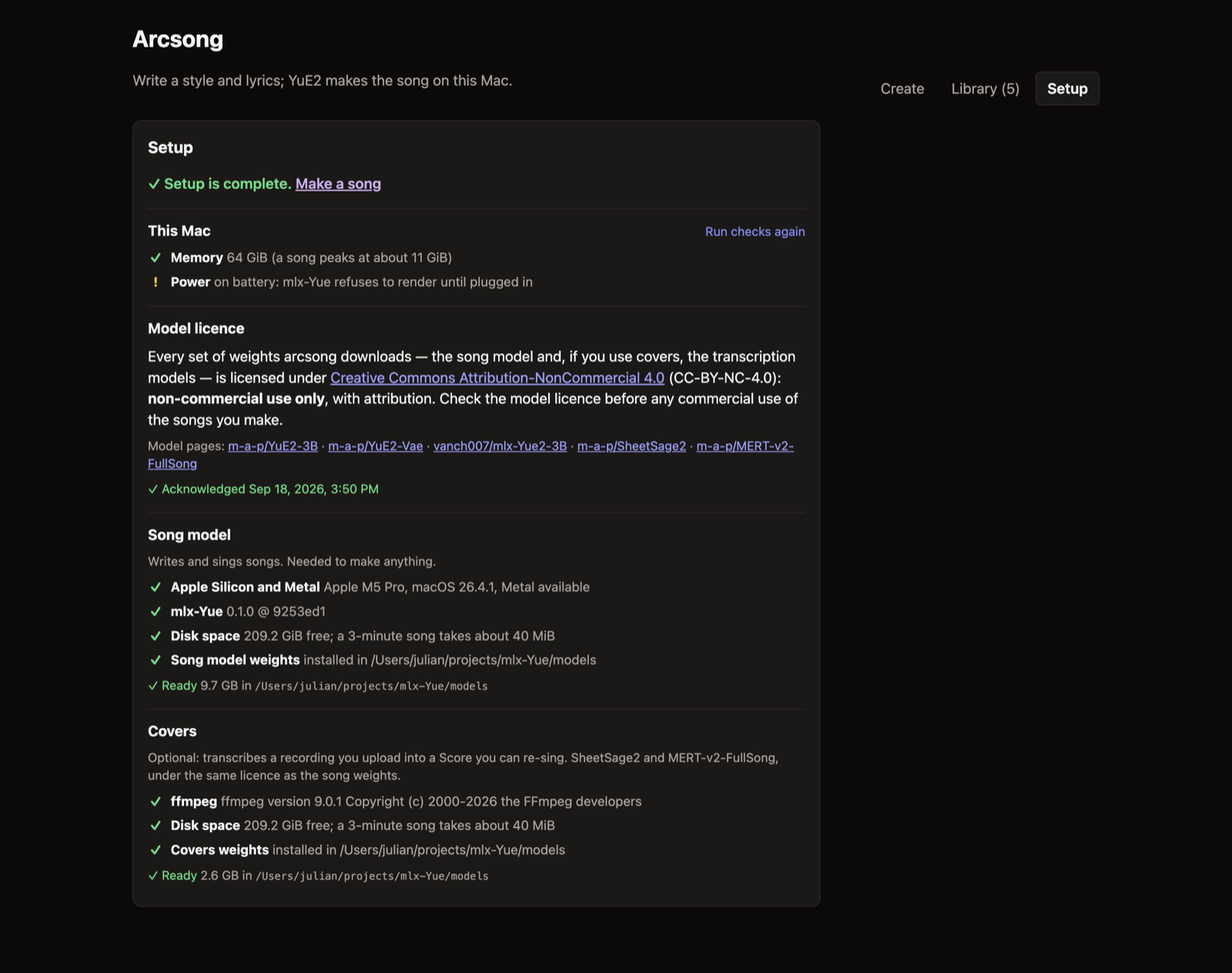
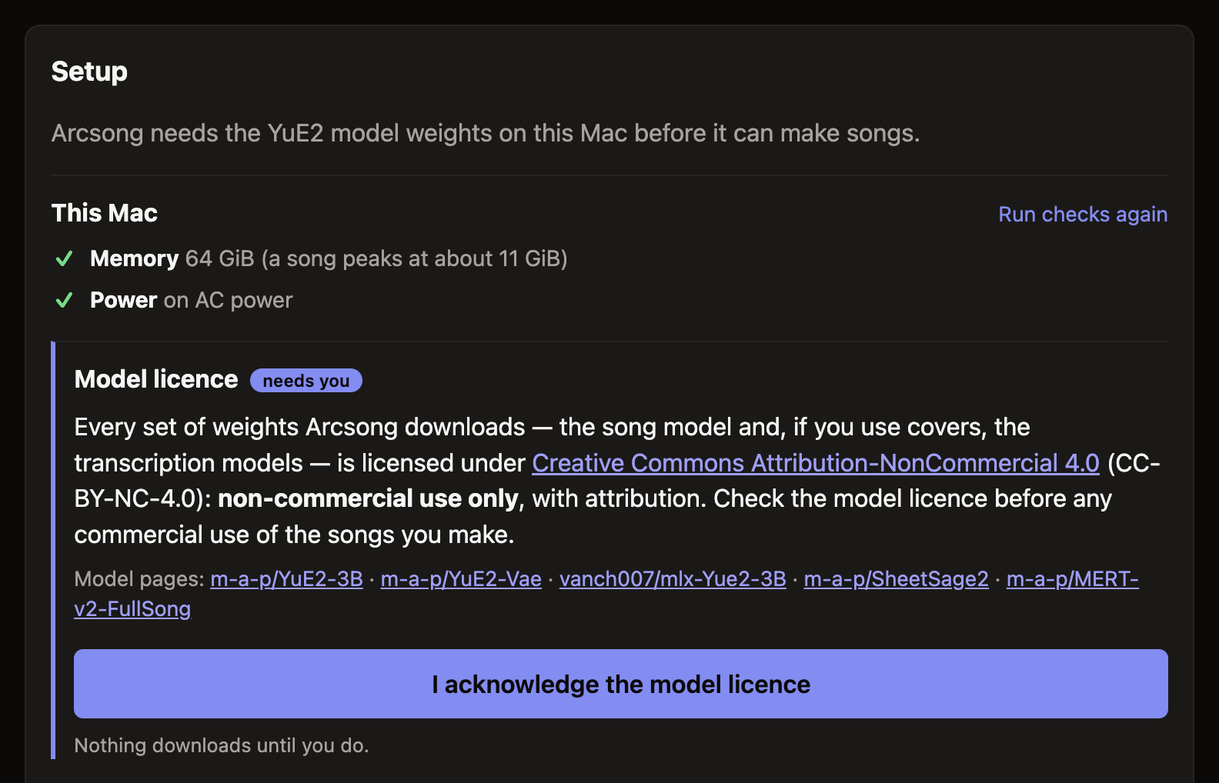
fix: licence notices in the wheel, an sdist whose tests can run, honest README claims (M6 review)
The wheel shipped 88 vendored MIT soundfont files and MIT/BSD bundles with only LICENSE
beside them; THIRD_PARTY_NOTICES.md now ships too. The sdist carried tests that import the
M0 spike harness it deliberately excludes, so they could never run — it now ships the app
alone and says why. The README claimed the samples play in the page (GitHub serves them as
downloads) and quoted a test count that went stale; the Setup screenshot showed a finished
setup beside text describing first run, and now shows the first-run state. Classifiers name
the Pythons the suite is actually run on, and the UI says "Arcsong", not "arcsong".

diff --git a/arcsong/static/assets/index-D48w_PKn.js b/arcsong/static/assets/index-D48w_PKn.js
@@ -233,4 +233,4 @@ Soft morning light is touching the window
 
 [Chorus]
 Stay with the rhythm, let it carry us home`}),K.jsx("p",{className:"hint",children:"Section tags like [Verse] and [Chorus] shape the song. Leave empty for an instrumental."}),K.jsxs("details",{open:h!==void 0,children:[K.jsx("summary",{children:"Advanced"}),K.jsxs("div",{className:"grid",children:[K.jsxs("div",{children:[K.jsx("label",{htmlFor:"mode",children:"Planning"}),K.jsxs("select",{id:"mode",value:g,onChange:U=>S(U.target.value),children:[K.jsx("option",{value:"full",children:"Melody + chords (recommended)"}),K.jsx("option",{value:"melody",children:"Melody only"}),K.jsx("option",{value:"off",children:"Off (no Score)"})]})]}),K.jsxs("div",{children:[K.jsx("label",{htmlFor:"steps",children:"Quality"}),K.jsxs("select",{id:"steps",value:o,onChange:U=>l(Number(U.target.value)),children:[K.jsx("option",{value:32,children:"Standard (32 steps)"}),K.jsx("option",{value:8,children:"Quick draft (8 steps)"})]})]}),K.jsxs("div",{children:[K.jsx("label",{htmlFor:"precision",children:"Precision"}),K.jsxs("select",{id:"precision",value:v,onChange:U=>u(U.target.value),children:[K.jsx("option",{value:"8bit",children:"8-bit (faster)"}),K.jsx("option",{value:"bf16",children:"bf16"})]})]}),K.jsxs("div",{children:[K.jsx("label",{htmlFor:"seed",children:"Seed"}),K.jsx("input",{id:"seed",inputMode:"numeric",pattern:"[0-9]*",value:b,onChange:U=>x(U.target.value.replace(/\D/g,"")),placeholder:"random"})]})]}),K.jsx("p",{className:"hint",children:"The same seed, precision and quality reproduce the same song."})]}),K.jsxs("div",{className:"takes-row",children:[K.jsx("label",{htmlFor:"takes",children:"Takes"}),K.jsxs("select",{id:"takes",value:i,onChange:U=>m(Number(U.target.value)),children:[K.jsx("option",{value:1,children:"1"}),K.jsx("option",{value:2,children:"2 variations"}),K.jsx("option",{value:4,children:"4 variations"}),K.jsx("option",{value:8,children:"8 variations"})]})]}),i>1&&K.jsxs("p",{className:"hint",children:[i," Takes with different seeds",b!==""&&` (${b}, ${Number(b)+1}, …)`,", compared side by side.",o===32?" Quick draft (8 steps) under Advanced makes them much faster; Finalize the one you like.":" Finalize the one you like at full quality."]}),E&&K.jsx("p",{className:"error",role:"alert",children:E}),!p&&K.jsxs("p",{className:"notice",role:"status",children:["The model weights aren’t ready yet. ",K.jsx("a",{href:"#/setup",children:"Finish Setup"})," to make songs."]}),K.jsx("button",{type:"submit",className:"primary",disabled:T||!s.trim()||!p,children:T?"Adding…":i>1?`Generate ×${i}`:"Generate"}),K.jsx("button",{type:"button",disabled:T||z||!s.trim()||!p,onClick:()=>{D()},children:z?"Planning…":"Score only"}),K.jsx("p",{className:"hint",children:"Score only writes the melody in seconds, to read, edit and render from — no audio yet."})]})}const Qy={full:"Melody + chords",melody:"Melody only",off:"Off (no Score)"};function Ky({songs:w,jobs:h,onJob:p,onSong:s,error:r,onDeleted:d,onRerun:c,onEdit:g}){const[S,b]=ye.useState(""),[x,v]=ye.useState(!1),[u,o]=ye.useState(null);ye.useEffect(()=>{Je.library().then(o).catch(()=>o(null))},[w]);const l=ye.useMemo(()=>{const i=S.trim().toLowerCase();return(w??[]).filter(m=>(!x||m.starred)&&(!i||`${m.request.style}
-${m.request.lyrics}`.toLowerCase().includes(i)))},[w,S,x]);return K.jsxs("section",{className:"panel library","aria-label":"Library",children:[K.jsxs("div",{className:"library-head",children:[K.jsx("h2",{children:"Library"}),u&&K.jsxs("p",{className:"muted small","data-testid":"usage",children:[u.songs," ",u.songs===1?"song":"songs"," · ",On(u.bytes_used)," used ·"," ",On(u.bytes_free)," free"]})]}),K.jsx("input",{type:"search",value:S,onChange:i=>b(i.target.value),placeholder:"Filter by style or lyrics","aria-label":"Filter songs"}),K.jsxs("label",{className:"check-label",children:[K.jsx("input",{type:"checkbox",checked:x,onChange:i=>v(i.target.checked)})," Starred only"]}),r&&K.jsxs("p",{className:"error",children:["Could not load songs: ",r]}),w===null&&!r&&K.jsx("p",{className:"muted",children:"Loading…"}),w?.length===0&&K.jsx("p",{className:"muted",children:"No songs yet. Make one in Create."}),w&&w.length>0&&l.length===0&&K.jsx("p",{className:"muted",children:x&&!S.trim()?"No starred songs yet.":`No songs match “${S}”${x?" among starred songs":""}.`}),K.jsx("ol",{className:"jobs",children:l.map(i=>K.jsx(Iy,{song:i,final:Zy(h,i.id),draftDeleted:i.source_song_id!==null&&!w?.some(m=>m.id===i.source_song_id),onJob:p,onSong:s,onDeleted:d,onRerun:c,onEdit:g},i.id))})]})}function Zy(w,h){return w.filter(p=>p.source_song_id===h).sort((p,s)=>s.id-p.id)[0]}function Iy({song:w,final:h,draftDeleted:p,onJob:s,onSong:r,onDeleted:d,onRerun:c,onEdit:g}){const{request:S}=w,b=S.steps<Ts,x=h&&["queued","running","done"].includes(h.status),[v,u]=ye.useState(!1),[o,l]=ye.useState(!1),[i,m]=ye.useState(null);async function T(C,E){l(!0),m(null);try{E(await C())}catch(A){m(A instanceof Error?A.message:String(A))}finally{l(!1)}}return K.jsxs("li",{className:"job song",children:[K.jsxs("div",{className:"job-head",children:[K.jsx("span",{className:"job-title",title:S.style,children:S.style}),K.jsxs("span",{className:"song-head-right",children:[K.jsxs("span",{className:"muted small",children:["#",w.id]}),K.jsx("button",{type:"button",className:`star${w.starred?" on":""}`,"aria-pressed":w.starred,"aria-label":w.starred?"Unstar this song":"Star this song",disabled:o,onClick:()=>T(()=>Je.star(w.id,!w.starred),r),children:w.starred?"★":"☆"})]})]}),K.jsxs("div",{className:"labels small",children:[b&&K.jsxs("span",{className:"badge queued",children:["Draft · ",S.steps," steps"]}),w.source_song_id!==null&&K.jsxs("span",{className:"badge done",children:["Final of ",p?"a deleted Draft":`#${w.source_song_id}`]}),w.group_id!==null&&K.jsx("a",{href:`#/compare/${w.group_id}`,children:"Compare Variations"}),S.mode!=="off"&&K.jsx("a",{href:`#/score/song/${w.id}`,children:"Score"}),S.abc&&K.jsx("span",{className:"muted",children:"From an edited Score"}),h?.status==="done"&&h.song_id!==null&&K.jsxs("span",{className:"muted",children:["Finalized as #",h.song_id]}),h&&(h.status==="queued"||h.status==="running")&&K.jsxs("span",{className:"muted",children:["Final ",h.status,"…"]})]}),K.jsxs("div",{className:"muted small",children:[I3(w.created_at),w.audio_seconds!==null&&K.jsxs(K.Fragment,{children:[" · ",nh(w.audio_seconds)]})," ·"," ",On(w.bytes)]}),K.jsx("audio",{controls:!0,preload:"none",src:Je.audioUrl(w.id)}),K.jsxs("details",{children:[K.jsx("summary",{className:"small",children:"Settings"}),K.jsxs("dl",{className:"settings",children:[K.jsx("dt",{children:"Planning"}),K.jsx("dd",{children:Qy[S.mode]}),K.jsx("dt",{children:"Quality"}),K.jsxs("dd",{children:[S.steps," steps"]}),K.jsx("dt",{children:"Precision"}),K.jsx("dd",{children:S.precision}),K.jsx("dt",{children:"Seed"}),K.jsx("dd",{children:S.seed})]}),S.lyrics.trim()?K.jsx("pre",{className:"lyrics",children:S.lyrics}):K.jsx("p",{className:"muted small",children:"No lyrics (instrumental)."})]}),K.jsxs("div",{className:"actions",children:[K.jsx("a",{className:"button",href:Je.downloadUrl(w.id,"flac"),download:!0,children:"FLAC"}),K.jsx("a",{className:"button",href:Je.downloadUrl(w.id,"wav"),download:!0,children:"WAV"}),b&&!x&&K.jsxs("button",{type:"button",disabled:o,onClick:()=>T(()=>Je.finalize(w.id),s),children:["Finalize (",Ts," steps)"]}),K.jsx("button",{type:"button",disabled:o,onClick:()=>T(()=>Je.create(S),c),children:"Re-run"}),K.jsx("button",{type:"button",disabled:o,onClick:()=>g(S),children:"Edit in Create"}),!v&&K.jsx("button",{type:"button",className:"danger",disabled:o,onClick:()=>u(!0),children:"Delete"})]}),v&&K.jsxs("div",{className:"confirm",role:"alertdialog","aria-label":"Confirm delete",children:[K.jsx("span",{children:"Delete this song and its files permanently?"}),K.jsx("button",{type:"button",className:"danger",disabled:o,onClick:()=>T(()=>Je.deleteSong(w.id),()=>d({song_id:w.id,job_id:w.job_id})),children:"Delete permanently"}),K.jsx("button",{type:"button",disabled:o,onClick:()=>u(!1),children:"Keep"})]}),i&&K.jsx("p",{className:"error small",children:i})]})}const Am={ok:"✓",warn:"!",fail:"✕"},Mm={ok:"OK",warn:"Warning",fail:"Problem"};function Jy({setup:w,error:h,onChanged:p}){const[s,r]=ye.useState(!1),[d,c]=ye.useState(null);async function g(v){r(!0),c(null);try{p(await v())}catch(u){c(u instanceof Error?u.message:String(u))}finally{r(!1)}}if(!w)return K.jsxs("section",{className:"panel setup","aria-label":"Setup",children:[K.jsx("h2",{children:"Setup"}),h?K.jsxs("p",{className:"error",children:["Could not load Setup: ",h]}):K.jsx("p",{className:"muted",children:"Loading…"})]});const{checks:S,licence:b}=w,x=b.acknowledged_at!==null;return K.jsxs("section",{className:"panel setup","aria-label":"Setup",children:[K.jsx("h2",{children:"Setup"}),w.ready?K.jsxs("p",{className:"setup-done",role:"status",children:["✓ Setup is complete. ",K.jsx("a",{href:"#/",children:"Make a song"})]}):K.jsx("p",{className:"muted",children:"Arcsong needs the YuE2 model weights on this Mac before it can make songs."}),d&&K.jsx("p",{className:"error",role:"alert",children:d}),K.jsxs("div",{className:"setup-section",children:[K.jsxs("div",{className:"label-row",children:[K.jsx("h3",{children:"This Mac"}),K.jsx("button",{type:"button",className:"link",disabled:w.checking,onClick:()=>{g(Je.runChecks)},children:w.checking?"Checking…":"Run checks again"})]}),K.jsx("ul",{className:"checks",children:S.map(v=>K.jsxs("li",{className:`check ${v.status}`,children:[K.jsx("span",{className:"mark","aria-label":Mm[v.status],children:Am[v.status]}),K.jsxs("span",{children:[K.jsx("strong",{children:v.label})," ",K.jsx("span",{className:"muted",children:v.detail})]})]},v.id))})]}),K.jsxs("div",{className:`setup-section${x?"":" needs-action"}`,children:[K.jsx("h3",{children:"Model licence"}),K.jsxs("p",{children:["Every set of weights arcsong downloads — the song model and, if you use covers, the transcription models — is licensed under"," ",K.jsx("a",{href:b.url,target:"_blank",rel:"noreferrer",children:b.name})," ","(",b.id,"): ",K.jsx("strong",{children:"non-commercial use only"}),", with attribution. Check the model licence before any commercial use of the songs you make."]}),K.jsxs("p",{className:"small muted",children:["Model pages:"," ",b.models.map((v,u)=>K.jsxs("span",{children:[u>0&&" · ",K.jsx("a",{href:v,target:"_blank",rel:"noreferrer",children:v.replace("https://huggingface.co/","")})]},v))]}),x?K.jsxs("p",{className:"small ok-text",children:["✓ Acknowledged ",I3(b.acknowledged_at)]}):K.jsxs(K.Fragment,{children:[K.jsx("button",{type:"button",className:"primary",disabled:s,onClick:()=>{g(Je.acknowledgeLicence)},children:"I acknowledge the model licence"}),K.jsx("p",{className:"hint",children:"Nothing downloads until you do."})]})]}),w.parts.map(v=>K.jsx(Wy,{part:v,acknowledged:x,busy:s,checking:w.checking,onAct:g},v.id))]})}function Wy({part:w,acknowledged:h,busy:p,checking:s,onAct:r}){const{weights:d,download:c,checks:g}=w,S=c.state==="running",b=g.some(x=>x.status==="fail"&&x.id!=="weights");return K.jsxs("div",{className:"setup-section",children:[K.jsx("h3",{children:w.label}),w.summary&&K.jsx("p",{className:"small muted",children:w.summary}),K.jsxs("ul",{className:"checks",children:[g.map(x=>K.jsxs("li",{className:`check ${x.status}`,children:[K.jsx("span",{className:"mark","aria-label":Mm[x.status],children:Am[x.status]}),K.jsxs("span",{children:[K.jsx("strong",{children:x.label})," ",K.jsx("span",{className:"muted",children:x.detail})]})]},x.id)),(s||!w.checked)&&K.jsxs("li",{className:"check muted",children:[K.jsx("span",{className:"mark",children:"…"}),K.jsx("span",{children:"Checking…"})]})]}),S&&K.jsxs("div",{className:"progress","aria-live":"polite",children:[K.jsx("progress",{value:c.phase==="verifying"?void 0:c.bytes??0,max:c.bytes_total||1}),K.jsx("p",{className:"small muted",children:c.phase==="verifying"?"Verifying the weights…":`Downloading ${On(c.bytes??0)} of ${On(c.bytes_total??0)}`}),K.jsx("button",{type:"button",disabled:p,onClick:()=>{r(()=>Je.cancelDownload(w.id))},children:"Cancel download"})]}),c.state==="cancelled"&&K.jsx("p",{className:"small muted",children:"Download cancelled. Download again to resume where it stopped."}),c.state==="failed"&&K.jsxs("div",{className:"error-details",children:[K.jsxs("p",{className:"error",children:["The download failed: ",c.reason]}),K.jsxs("details",{children:[K.jsx("summary",{children:"Details"}),K.jsx("pre",{children:c.error})]})]}),!S&&(!d.installed||c.state==="failed")&&K.jsxs(K.Fragment,{children:[K.jsx("button",{type:"button",className:w.id==="engine"&&h?"primary":void 0,disabled:p||!h,onClick:()=>{r(()=>Je.startDownload(w.id))},children:c.state==="failed"||c.state==="cancelled"||d.bytes_on_disk>0?"Download again":`Download (${On(d.bytes_total)})`}),!h&&K.jsx("p",{className:"hint",children:"Acknowledge the licence above to download."}),b&&d.installed&&K.jsx("p",{className:"hint",children:"The weights are here, but the check above has to pass first."})]}),!S&&d.installed&&!b&&c.state!=="failed"&&K.jsxs("p",{className:"small",children:[K.jsx("span",{className:"ok-text",children:"✓ Ready"})," ",K.jsxs("span",{className:"muted",children:[On(d.bytes_total)," in ",K.jsx("code",{children:d.dir})]})]})]})}const Pi={create:"#/",library:"#/library",setup:"#/setup",compare:"#/compare/",score:"#/score/"};function V3(){const w=window.location.hash;return eh(w)!==null?"score":th(w)!==null?"compare":w===Pi.library?"library":w===Pi.setup?"setup":"create"}function P3(w){return w?.parts?.find(h=>h.id==="covers")}function eh(w){const h=/^#\/score\/(job|song)\/(\d+)$/.exec(w);return h?{kind:h[1],id:Number(h[2])}:null}function th(w){const h=/^#\/compare\/(\d+)$/.exec(w);return h?Number(h[1]):null}function $y(){const[w,h]=ye.useState(V3),[p,s]=ye.useState(()=>th(window.location.hash)),[r,d]=ye.useState(()=>eh(window.location.hash)),[c,g]=ye.useState(new Map),[S,b]=ye.useState(null),[x,v]=ye.useState(null),[u,o]=ye.useState(null),l=ye.useRef(new Set),i=ye.useRef(new Set),[m,T]=ye.useState(null),[C,E]=ye.useState(null),[A,z]=ye.useState(null),j=ye.useRef(!1);ye.useEffect(()=>{const O=()=>{h(V3()),s(th(window.location.hash)),d(eh(window.location.hash))};return window.addEventListener("hashchange",O),()=>window.removeEventListener("hashchange",O)},[]);const L=O=>{window.location.hash=Pi[O]},D=ye.useCallback(O=>{if(E(M=>M&&M.seq>O.seq?M:O),!j.current){j.current=!0;const M=window.location.hash;!O.ready&&(M===""||M==="#"||M===Pi.create)&&(window.location.hash=Pi.setup)}},[]),U=ye.useCallback(()=>Je.songs().then(O=>{o(null),b(O.filter(M=>!i.current.has(M.id)))}).catch(O=>o(String(O))),[]),V=ye.useCallback(O=>{l.current.has(O.id)||g(M=>{const q=M.get(O.id);return q&&q.seq>O.seq?M:(O.status==="done"&&q?.status!=="done"&&U(),new Map(M).set(O.id,O))})},[U]),k=ye.useCallback(O=>{i.current.has(O.id)||(b(M=>M&&M.map(q=>q.id===O.id?{...q,...O,bytes:q.bytes}:q)),g(M=>{const q=M.get(O.job_id);return q?new Map(M).set(q.id,{...q,starred:O.starred}):M}))},[]),H=ye.useCallback(O=>{l.current.add(O.job_id),i.current.add(O.song_id),g(M=>{if(!M.has(O.job_id))return M;const q=new Map(M);return q.delete(O.job_id),q}),b(M=>M&&M.filter(q=>q.id!==O.song_id))},[]);ye.useEffect(()=>N6({onJob:V,onDeleted:H,onSetup:D,onSong:k,onConnect:()=>{U(),Je.setup().then(M=>{z(null),D(M)}).catch(M=>z(String(M))),Je.jobs().then(M=>{v(null),g(q=>{const Q=M.filter(_=>!l.current.has(_.id)),G=new Map(Q.map(_=>[_.id,_]));for(const[_,N]of q){const B=G.get(_);B&&B.seq<N.seq&&G.set(_,N)}return G})}).catch(M=>v(String(M)))}}),[V,H,U,D,k]);const X=[...c.values()].sort((O,M)=>M.id-O.id);return K.jsxs("main",{children:[K.jsxs("header",{className:"top",children:[K.jsxs("div",{children:[K.jsx("h1",{children:"Arcsong"}),K.jsx("p",{className:"muted",children:"Write a style and lyrics; YuE2 makes the song on this Mac."})]}),K.jsxs("nav",{"aria-label":"Views",children:[K.jsx("a",{href:"#/","aria-current":w==="create"?"page":void 0,children:"Create"}),K.jsxs("a",{href:"#/library","aria-current":w==="library"?"page":void 0,children:["Library",S?` (${S.length})`:""]}),K.jsxs("a",{href:"#/setup","aria-current":w==="setup"?"page":void 0,children:["Setup",C&&!C.ready&&K.jsxs("span",{className:"attention","aria-label":"needs attention",children:[" ","!"]})]})]})]}),w==="setup"?K.jsx(Jy,{setup:C,error:A,onChanged:D}):w==="score"&&r!==null?K.jsx(Xy,{source:r,onJob:V},`${r.kind}/${r.id}`):w==="compare"&&p!==null?K.jsx(Q6,{groupId:p,jobs:X,songs:S,onJob:V,onSong:k}):w==="create"?K.jsxs("div",{className:"layout",children:[K.jsxs("div",{className:"stack",children:[K.jsx(Fy,{initial:m?.request,onCreated:V,canRender:C?.can_render??!0},m?.version??0),K.jsx(W6,{onCreated:V,ready:P3(C)?.usable??!1,checking:C!==null&&P3(C)?.checked===!1})]}),K.jsx(U6,{jobs:X,onChanged:V,error:x})]}):K.jsx(Ky,{songs:S,jobs:X,onJob:V,onSong:k,error:u,onDeleted:H,onRerun:O=>{V(O),L("create")},onEdit:O=>{T(M=>({request:O,version:(M?.version??0)+1})),L("create")}})]})}M6.createRoot(document.getElementById("root")).render(K.jsx(ye.StrictMode,{children:K.jsx($y,{})}));
+${m.request.lyrics}`.toLowerCase().includes(i)))},[w,S,x]);return K.jsxs("section",{className:"panel library","aria-label":"Library",children:[K.jsxs("div",{className:"library-head",children:[K.jsx("h2",{children:"Library"}),u&&K.jsxs("p",{className:"muted small","data-testid":"usage",children:[u.songs," ",u.songs===1?"song":"songs"," · ",On(u.bytes_used)," used ·"," ",On(u.bytes_free)," free"]})]}),K.jsx("input",{type:"search",value:S,onChange:i=>b(i.target.value),placeholder:"Filter by style or lyrics","aria-label":"Filter songs"}),K.jsxs("label",{className:"check-label",children:[K.jsx("input",{type:"checkbox",checked:x,onChange:i=>v(i.target.checked)})," Starred only"]}),r&&K.jsxs("p",{className:"error",children:["Could not load songs: ",r]}),w===null&&!r&&K.jsx("p",{className:"muted",children:"Loading…"}),w?.length===0&&K.jsx("p",{className:"muted",children:"No songs yet. Make one in Create."}),w&&w.length>0&&l.length===0&&K.jsx("p",{className:"muted",children:x&&!S.trim()?"No starred songs yet.":`No songs match “${S}”${x?" among starred songs":""}.`}),K.jsx("ol",{className:"jobs",children:l.map(i=>K.jsx(Iy,{song:i,final:Zy(h,i.id),draftDeleted:i.source_song_id!==null&&!w?.some(m=>m.id===i.source_song_id),onJob:p,onSong:s,onDeleted:d,onRerun:c,onEdit:g},i.id))})]})}function Zy(w,h){return w.filter(p=>p.source_song_id===h).sort((p,s)=>s.id-p.id)[0]}function Iy({song:w,final:h,draftDeleted:p,onJob:s,onSong:r,onDeleted:d,onRerun:c,onEdit:g}){const{request:S}=w,b=S.steps<Ts,x=h&&["queued","running","done"].includes(h.status),[v,u]=ye.useState(!1),[o,l]=ye.useState(!1),[i,m]=ye.useState(null);async function T(C,E){l(!0),m(null);try{E(await C())}catch(A){m(A instanceof Error?A.message:String(A))}finally{l(!1)}}return K.jsxs("li",{className:"job song",children:[K.jsxs("div",{className:"job-head",children:[K.jsx("span",{className:"job-title",title:S.style,children:S.style}),K.jsxs("span",{className:"song-head-right",children:[K.jsxs("span",{className:"muted small",children:["#",w.id]}),K.jsx("button",{type:"button",className:`star${w.starred?" on":""}`,"aria-pressed":w.starred,"aria-label":w.starred?"Unstar this song":"Star this song",disabled:o,onClick:()=>T(()=>Je.star(w.id,!w.starred),r),children:w.starred?"★":"☆"})]})]}),K.jsxs("div",{className:"labels small",children:[b&&K.jsxs("span",{className:"badge queued",children:["Draft · ",S.steps," steps"]}),w.source_song_id!==null&&K.jsxs("span",{className:"badge done",children:["Final of ",p?"a deleted Draft":`#${w.source_song_id}`]}),w.group_id!==null&&K.jsx("a",{href:`#/compare/${w.group_id}`,children:"Compare Variations"}),S.mode!=="off"&&K.jsx("a",{href:`#/score/song/${w.id}`,children:"Score"}),S.abc&&K.jsx("span",{className:"muted",children:"From an edited Score"}),h?.status==="done"&&h.song_id!==null&&K.jsxs("span",{className:"muted",children:["Finalized as #",h.song_id]}),h&&(h.status==="queued"||h.status==="running")&&K.jsxs("span",{className:"muted",children:["Final ",h.status,"…"]})]}),K.jsxs("div",{className:"muted small",children:[I3(w.created_at),w.audio_seconds!==null&&K.jsxs(K.Fragment,{children:[" · ",nh(w.audio_seconds)]})," ·"," ",On(w.bytes)]}),K.jsx("audio",{controls:!0,preload:"none",src:Je.audioUrl(w.id)}),K.jsxs("details",{children:[K.jsx("summary",{className:"small",children:"Settings"}),K.jsxs("dl",{className:"settings",children:[K.jsx("dt",{children:"Planning"}),K.jsx("dd",{children:Qy[S.mode]}),K.jsx("dt",{children:"Quality"}),K.jsxs("dd",{children:[S.steps," steps"]}),K.jsx("dt",{children:"Precision"}),K.jsx("dd",{children:S.precision}),K.jsx("dt",{children:"Seed"}),K.jsx("dd",{children:S.seed})]}),S.lyrics.trim()?K.jsx("pre",{className:"lyrics",children:S.lyrics}):K.jsx("p",{className:"muted small",children:"No lyrics (instrumental)."})]}),K.jsxs("div",{className:"actions",children:[K.jsx("a",{className:"button",href:Je.downloadUrl(w.id,"flac"),download:!0,children:"FLAC"}),K.jsx("a",{className:"button",href:Je.downloadUrl(w.id,"wav"),download:!0,children:"WAV"}),b&&!x&&K.jsxs("button",{type:"button",disabled:o,onClick:()=>T(()=>Je.finalize(w.id),s),children:["Finalize (",Ts," steps)"]}),K.jsx("button",{type:"button",disabled:o,onClick:()=>T(()=>Je.create(S),c),children:"Re-run"}),K.jsx("button",{type:"button",disabled:o,onClick:()=>g(S),children:"Edit in Create"}),!v&&K.jsx("button",{type:"button",className:"danger",disabled:o,onClick:()=>u(!0),children:"Delete"})]}),v&&K.jsxs("div",{className:"confirm",role:"alertdialog","aria-label":"Confirm delete",children:[K.jsx("span",{children:"Delete this song and its files permanently?"}),K.jsx("button",{type:"button",className:"danger",disabled:o,onClick:()=>T(()=>Je.deleteSong(w.id),()=>d({song_id:w.id,job_id:w.job_id})),children:"Delete permanently"}),K.jsx("button",{type:"button",disabled:o,onClick:()=>u(!1),children:"Keep"})]}),i&&K.jsx("p",{className:"error small",children:i})]})}const Am={ok:"✓",warn:"!",fail:"✕"},Mm={ok:"OK",warn:"Warning",fail:"Problem"};function Jy({setup:w,error:h,onChanged:p}){const[s,r]=ye.useState(!1),[d,c]=ye.useState(null);async function g(v){r(!0),c(null);try{p(await v())}catch(u){c(u instanceof Error?u.message:String(u))}finally{r(!1)}}if(!w)return K.jsxs("section",{className:"panel setup","aria-label":"Setup",children:[K.jsx("h2",{children:"Setup"}),h?K.jsxs("p",{className:"error",children:["Could not load Setup: ",h]}):K.jsx("p",{className:"muted",children:"Loading…"})]});const{checks:S,licence:b}=w,x=b.acknowledged_at!==null;return K.jsxs("section",{className:"panel setup","aria-label":"Setup",children:[K.jsx("h2",{children:"Setup"}),w.ready?K.jsxs("p",{className:"setup-done",role:"status",children:["✓ Setup is complete. ",K.jsx("a",{href:"#/",children:"Make a song"})]}):K.jsx("p",{className:"muted",children:"Arcsong needs the YuE2 model weights on this Mac before it can make songs."}),d&&K.jsx("p",{className:"error",role:"alert",children:d}),K.jsxs("div",{className:"setup-section",children:[K.jsxs("div",{className:"label-row",children:[K.jsx("h3",{children:"This Mac"}),K.jsx("button",{type:"button",className:"link",disabled:w.checking,onClick:()=>{g(Je.runChecks)},children:w.checking?"Checking…":"Run checks again"})]}),K.jsx("ul",{className:"checks",children:S.map(v=>K.jsxs("li",{className:`check ${v.status}`,children:[K.jsx("span",{className:"mark","aria-label":Mm[v.status],children:Am[v.status]}),K.jsxs("span",{children:[K.jsx("strong",{children:v.label})," ",K.jsx("span",{className:"muted",children:v.detail})]})]},v.id))})]}),K.jsxs("div",{className:`setup-section${x?"":" needs-action"}`,children:[K.jsx("h3",{children:"Model licence"}),K.jsxs("p",{children:["Every set of weights Arcsong downloads — the song model and, if you use covers, the transcription models — is licensed under"," ",K.jsx("a",{href:b.url,target:"_blank",rel:"noreferrer",children:b.name})," ","(",b.id,"): ",K.jsx("strong",{children:"non-commercial use only"}),", with attribution. Check the model licence before any commercial use of the songs you make."]}),K.jsxs("p",{className:"small muted",children:["Model pages:"," ",b.models.map((v,u)=>K.jsxs("span",{children:[u>0&&" · ",K.jsx("a",{href:v,target:"_blank",rel:"noreferrer",children:v.replace("https://huggingface.co/","")})]},v))]}),x?K.jsxs("p",{className:"small ok-text",children:["✓ Acknowledged ",I3(b.acknowledged_at)]}):K.jsxs(K.Fragment,{children:[K.jsx("button",{type:"button",className:"primary",disabled:s,onClick:()=>{g(Je.acknowledgeLicence)},children:"I acknowledge the model licence"}),K.jsx("p",{className:"hint",children:"Nothing downloads until you do."})]})]}),w.parts.map(v=>K.jsx(Wy,{part:v,acknowledged:x,busy:s,checking:w.checking,onAct:g},v.id))]})}function Wy({part:w,acknowledged:h,busy:p,checking:s,onAct:r}){const{weights:d,download:c,checks:g}=w,S=c.state==="running",b=g.some(x=>x.status==="fail"&&x.id!=="weights");return K.jsxs("div",{className:"setup-section",children:[K.jsx("h3",{children:w.label}),w.summary&&K.jsx("p",{className:"small muted",children:w.summary}),K.jsxs("ul",{className:"checks",children:[g.map(x=>K.jsxs("li",{className:`check ${x.status}`,children:[K.jsx("span",{className:"mark","aria-label":Mm[x.status],children:Am[x.status]}),K.jsxs("span",{children:[K.jsx("strong",{children:x.label})," ",K.jsx("span",{className:"muted",children:x.detail})]})]},x.id)),(s||!w.checked)&&K.jsxs("li",{className:"check muted",children:[K.jsx("span",{className:"mark",children:"…"}),K.jsx("span",{children:"Checking…"})]})]}),S&&K.jsxs("div",{className:"progress","aria-live":"polite",children:[K.jsx("progress",{value:c.phase==="verifying"?void 0:c.bytes??0,max:c.bytes_total||1}),K.jsx("p",{className:"small muted",children:c.phase==="verifying"?"Verifying the weights…":`Downloading ${On(c.bytes??0)} of ${On(c.bytes_total??0)}`}),K.jsx("button",{type:"button",disabled:p,onClick:()=>{r(()=>Je.cancelDownload(w.id))},children:"Cancel download"})]}),c.state==="cancelled"&&K.jsx("p",{className:"small muted",children:"Download cancelled. Download again to resume where it stopped."}),c.state==="failed"&&K.jsxs("div",{className:"error-details",children:[K.jsxs("p",{className:"error",children:["The download failed: ",c.reason]}),K.jsxs("details",{children:[K.jsx("summary",{children:"Details"}),K.jsx("pre",{children:c.error})]})]}),!S&&(!d.installed||c.state==="failed")&&K.jsxs(K.Fragment,{children:[K.jsx("button",{type:"button",className:w.id==="engine"&&h?"primary":void 0,disabled:p||!h,onClick:()=>{r(()=>Je.startDownload(w.id))},children:c.state==="failed"||c.state==="cancelled"||d.bytes_on_disk>0?"Download again":`Download (${On(d.bytes_total)})`}),!h&&K.jsx("p",{className:"hint",children:"Acknowledge the licence above to download."}),b&&d.installed&&K.jsx("p",{className:"hint",children:"The weights are here, but the check above has to pass first."})]}),!S&&d.installed&&!b&&c.state!=="failed"&&K.jsxs("p",{className:"small",children:[K.jsx("span",{className:"ok-text",children:"✓ Ready"})," ",K.jsxs("span",{className:"muted",children:[On(d.bytes_total)," in ",K.jsx("code",{children:d.dir})]})]})]})}const Pi={create:"#/",library:"#/library",setup:"#/setup",compare:"#/compare/",score:"#/score/"};function V3(){const w=window.location.hash;return eh(w)!==null?"score":th(w)!==null?"compare":w===Pi.library?"library":w===Pi.setup?"setup":"create"}function P3(w){return w?.parts?.find(h=>h.id==="covers")}function eh(w){const h=/^#\/score\/(job|song)\/(\d+)$/.exec(w);return h?{kind:h[1],id:Number(h[2])}:null}function th(w){const h=/^#\/compare\/(\d+)$/.exec(w);return h?Number(h[1]):null}function $y(){const[w,h]=ye.useState(V3),[p,s]=ye.useState(()=>th(window.location.hash)),[r,d]=ye.useState(()=>eh(window.location.hash)),[c,g]=ye.useState(new Map),[S,b]=ye.useState(null),[x,v]=ye.useState(null),[u,o]=ye.useState(null),l=ye.useRef(new Set),i=ye.useRef(new Set),[m,T]=ye.useState(null),[C,E]=ye.useState(null),[A,z]=ye.useState(null),j=ye.useRef(!1);ye.useEffect(()=>{const O=()=>{h(V3()),s(th(window.location.hash)),d(eh(window.location.hash))};return window.addEventListener("hashchange",O),()=>window.removeEventListener("hashchange",O)},[]);const L=O=>{window.location.hash=Pi[O]},D=ye.useCallback(O=>{if(E(M=>M&&M.seq>O.seq?M:O),!j.current){j.current=!0;const M=window.location.hash;!O.ready&&(M===""||M==="#"||M===Pi.create)&&(window.location.hash=Pi.setup)}},[]),U=ye.useCallback(()=>Je.songs().then(O=>{o(null),b(O.filter(M=>!i.current.has(M.id)))}).catch(O=>o(String(O))),[]),V=ye.useCallback(O=>{l.current.has(O.id)||g(M=>{const q=M.get(O.id);return q&&q.seq>O.seq?M:(O.status==="done"&&q?.status!=="done"&&U(),new Map(M).set(O.id,O))})},[U]),k=ye.useCallback(O=>{i.current.has(O.id)||(b(M=>M&&M.map(q=>q.id===O.id?{...q,...O,bytes:q.bytes}:q)),g(M=>{const q=M.get(O.job_id);return q?new Map(M).set(q.id,{...q,starred:O.starred}):M}))},[]),H=ye.useCallback(O=>{l.current.add(O.job_id),i.current.add(O.song_id),g(M=>{if(!M.has(O.job_id))return M;const q=new Map(M);return q.delete(O.job_id),q}),b(M=>M&&M.filter(q=>q.id!==O.song_id))},[]);ye.useEffect(()=>N6({onJob:V,onDeleted:H,onSetup:D,onSong:k,onConnect:()=>{U(),Je.setup().then(M=>{z(null),D(M)}).catch(M=>z(String(M))),Je.jobs().then(M=>{v(null),g(q=>{const Q=M.filter(_=>!l.current.has(_.id)),G=new Map(Q.map(_=>[_.id,_]));for(const[_,N]of q){const B=G.get(_);B&&B.seq<N.seq&&G.set(_,N)}return G})}).catch(M=>v(String(M)))}}),[V,H,U,D,k]);const X=[...c.values()].sort((O,M)=>M.id-O.id);return K.jsxs("main",{children:[K.jsxs("header",{className:"top",children:[K.jsxs("div",{children:[K.jsx("h1",{children:"Arcsong"}),K.jsx("p",{className:"muted",children:"Write a style and lyrics; YuE2 makes the song on this Mac."})]}),K.jsxs("nav",{"aria-label":"Views",children:[K.jsx("a",{href:"#/","aria-current":w==="create"?"page":void 0,children:"Create"}),K.jsxs("a",{href:"#/library","aria-current":w==="library"?"page":void 0,children:["Library",S?` (${S.length})`:""]}),K.jsxs("a",{href:"#/setup","aria-current":w==="setup"?"page":void 0,children:["Setup",C&&!C.ready&&K.jsxs("span",{className:"attention","aria-label":"needs attention",children:[" ","!"]})]})]})]}),w==="setup"?K.jsx(Jy,{setup:C,error:A,onChanged:D}):w==="score"&&r!==null?K.jsx(Xy,{source:r,onJob:V},`${r.kind}/${r.id}`):w==="compare"&&p!==null?K.jsx(Q6,{groupId:p,jobs:X,songs:S,onJob:V,onSong:k}):w==="create"?K.jsxs("div",{className:"layout",children:[K.jsxs("div",{className:"stack",children:[K.jsx(Fy,{initial:m?.request,onCreated:V,canRender:C?.can_render??!0},m?.version??0),K.jsx(W6,{onCreated:V,ready:P3(C)?.usable??!1,checking:C!==null&&P3(C)?.checked===!1})]}),K.jsx(U6,{jobs:X,onChanged:V,error:x})]}):K.jsx(Ky,{songs:S,jobs:X,onJob:V,onSong:k,error:u,onDeleted:H,onRerun:O=>{V(O),L("create")},onEdit:O=>{T(M=>({request:O,version:(M?.version??0)+1})),L("create")}})]})}M6.createRoot(document.getElementById("root")).render(K.jsx(ye.StrictMode,{children:K.jsx($y,{})}));

diff --git a/web/src/SetupView.tsx b/web/src/SetupView.tsx
@@ -85,7 +85,7 @@ export default function SetupView({ setup, error, onChanged }: Props) {
       <div className={`setup-section${acknowledged ? "" : " needs-action"}`}>
         <h3>Model licence</h3>
         <p>
-          Every set of weights arcsong downloads — the song model and, if you use covers, the
+          Every set of weights Arcsong downloads — the song model and, if you use covers, the
           transcription models — is licensed under{" "}
           <a href={licence.url} target="_blank" rel="noreferrer">
             {licence.name}

diff --git a/arcsong/static/index.html b/arcsong/static/index.html
@@ -4,7 +4,7 @@
     <meta charset="UTF-8" />
     <meta name="viewport" content="width=device-width, initial-scale=1.0" />
     <title>Arcsong</title>
-    <script type="module" crossorigin src="/assets/index-tS0IOmB4.js"></script>
+    <script type="module" crossorigin src="/assets/index-D48w_PKn.js"></script>
     <link rel="stylesheet" crossorigin href="/assets/index-B7cbWcqr.css">
   </head>
   <body>

diff --git a/arcsong/app.py b/arcsong/app.py
@@ -154,7 +154,7 @@ def create_app(
             runner.stop()
             store.close()
 
-    app = FastAPI(title="arcsong", lifespan=lifespan)
+    app = FastAPI(title="Arcsong", lifespan=lifespan)
     # Set when the server starts shutting down, so open event streams end instead of keeping
     # the server alive (uvicorn waits for open connections before running lifespan shutdown).
     app.state.shutting_down = threading.Event()

diff --git a/arcsong/config.py b/arcsong/config.py
@@ -1,4 +1,4 @@
-"""Where arcsong keeps its data."""
+"""Where Arcsong keeps its data."""
 
 from __future__ import annotations
 

diff --git a/CLAUDE.md b/CLAUDE.md
@@ -13,7 +13,7 @@ Local web UI for the YuE2 music model. Plan: `PLAN.md`. Prior art: `docs/prior-a
 - Setup (`setup.py` + `models.py`): `GET /api/setup` returns machine checks plus a `parts` list — `engine` (the song weights) and the optional `covers` (ffmpeg + SheetSage2 and MERT2, ~2.6 GiB) — each with its own weights state (from pinned file sizes), download, checks, `checked` and `usable`. `POST /api/setup/checks|licence`, `POST /api/setup/download/{part}` and `.../cancel`, SSE `setup` messages with a `seq`. One part downloads at a time; only `engine` gates rendering, and an optional part is not usable until its own checks have run. The weights download runs in its own spawned process at pinned revisions; the server polls bytes on disk. `POST /api/jobs` answers 409 until the weights are installed. `--engine fake` downloads 64 MB of fake weights so Setup can be tried without a GPU; `create_app` without `models=` uses preinstalled fake weights, so tests skip the gate.
 - Create holds the song form and the Cover panel; the page has Create / Library / Setup views on `#/`, `#/library`, `#/setup`, Compare on `#/compare/<group id>` and the Score on `#/score/job/<id>` or `#/score/song/<id>` (abcjs notation, melody preview, ABC editor with live validation and a diff); it opens on Setup while not ready. `--engine fake` writes 20 s tones whose pitch depends on the seed.
 - Web: Vite + React + TS in `web/`, built into `arcsong/static/` (committed, so running needs no Node). After editing `web/src`, run `cd web && npm run build` and commit the build.
-- Released: [v0.1.0](https://github.com/TensorAtelier/arcsong/releases/tag/v0.1.0), installed with `uv tool install git+https://github.com/TensorAtelier/arcsong`. Cutting a release: `docs/release.md`. The wheel ships `arcsong` only (never `spike`, which stays in the repository); supported Pythons are 3.12–3.14; the README's samples and screenshots live in `docs/media/` with `.gitignore` exceptions.
+- Released: [v0.1.0](https://github.com/TensorAtelier/arcsong/releases/tag/v0.1.0), installed with `uv tool install git+https://github.com/TensorAtelier/arcsong`. Cutting a release: `docs/release.md`. The wheel ships `arcsong` only (never `spike`, which stays in the repository); the suite is run on Pythons 3.12–3.14 (the pin is `>=3.12`, so a newer one installs untested); the README's samples and screenshots live in `docs/media/` with `.gitignore` exceptions.
 - Verify: `uv run pytest -q`, `uv run ruff check .`, `cd web && npm run typecheck`. The real-engine tests cover a render, a Finalize, a Score-only run, a render from an edited Score, the covers weights download and a full cover. Real render test: `ARCSONG_REAL_ENGINE=1 caffeinate -ims uv run pytest -q tests/test_real_engine.py`. Real weights download (~10 GB, ~2.5 min, into a temp dir): `ARCSONG_REAL_DOWNLOAD=1 uv run pytest -q tests/test_real_download.py`.
 
 Gotchas:

diff --git a/README.md b/README.md
@@ -9,8 +9,8 @@ Silicon. Nothing is sent anywhere: the model, the weights and your songs stay on
 
 ## Hear it first
 
-Three songs made with Arcsong, nothing edited — style and lyrics in, these came out. Each is a
-45-second excerpt of the full take (click to play):
+Three songs made with Arcsong, nothing edited — style and lyrics in, these came out. Each link
+downloads a 45-second excerpt of the full take (GitHub won't play them in the page):
 
 | | Style given to the model |
 |---|---|
@@ -119,7 +119,7 @@ uv sync                     # Python side
 cd web && npm install       # only if you are changing the page
 uv run arcsong serve --engine fake   # no GPU, no weights: scripted stages and a test tone
 
-uv run pytest -q            # 240 tests, all on the fake engine
+uv run pytest -q            # the whole suite, on the fake engine — no GPU, no weights
 uv run ruff check .
 cd web && npm run typecheck && npm run build   # the build is committed
 ```
